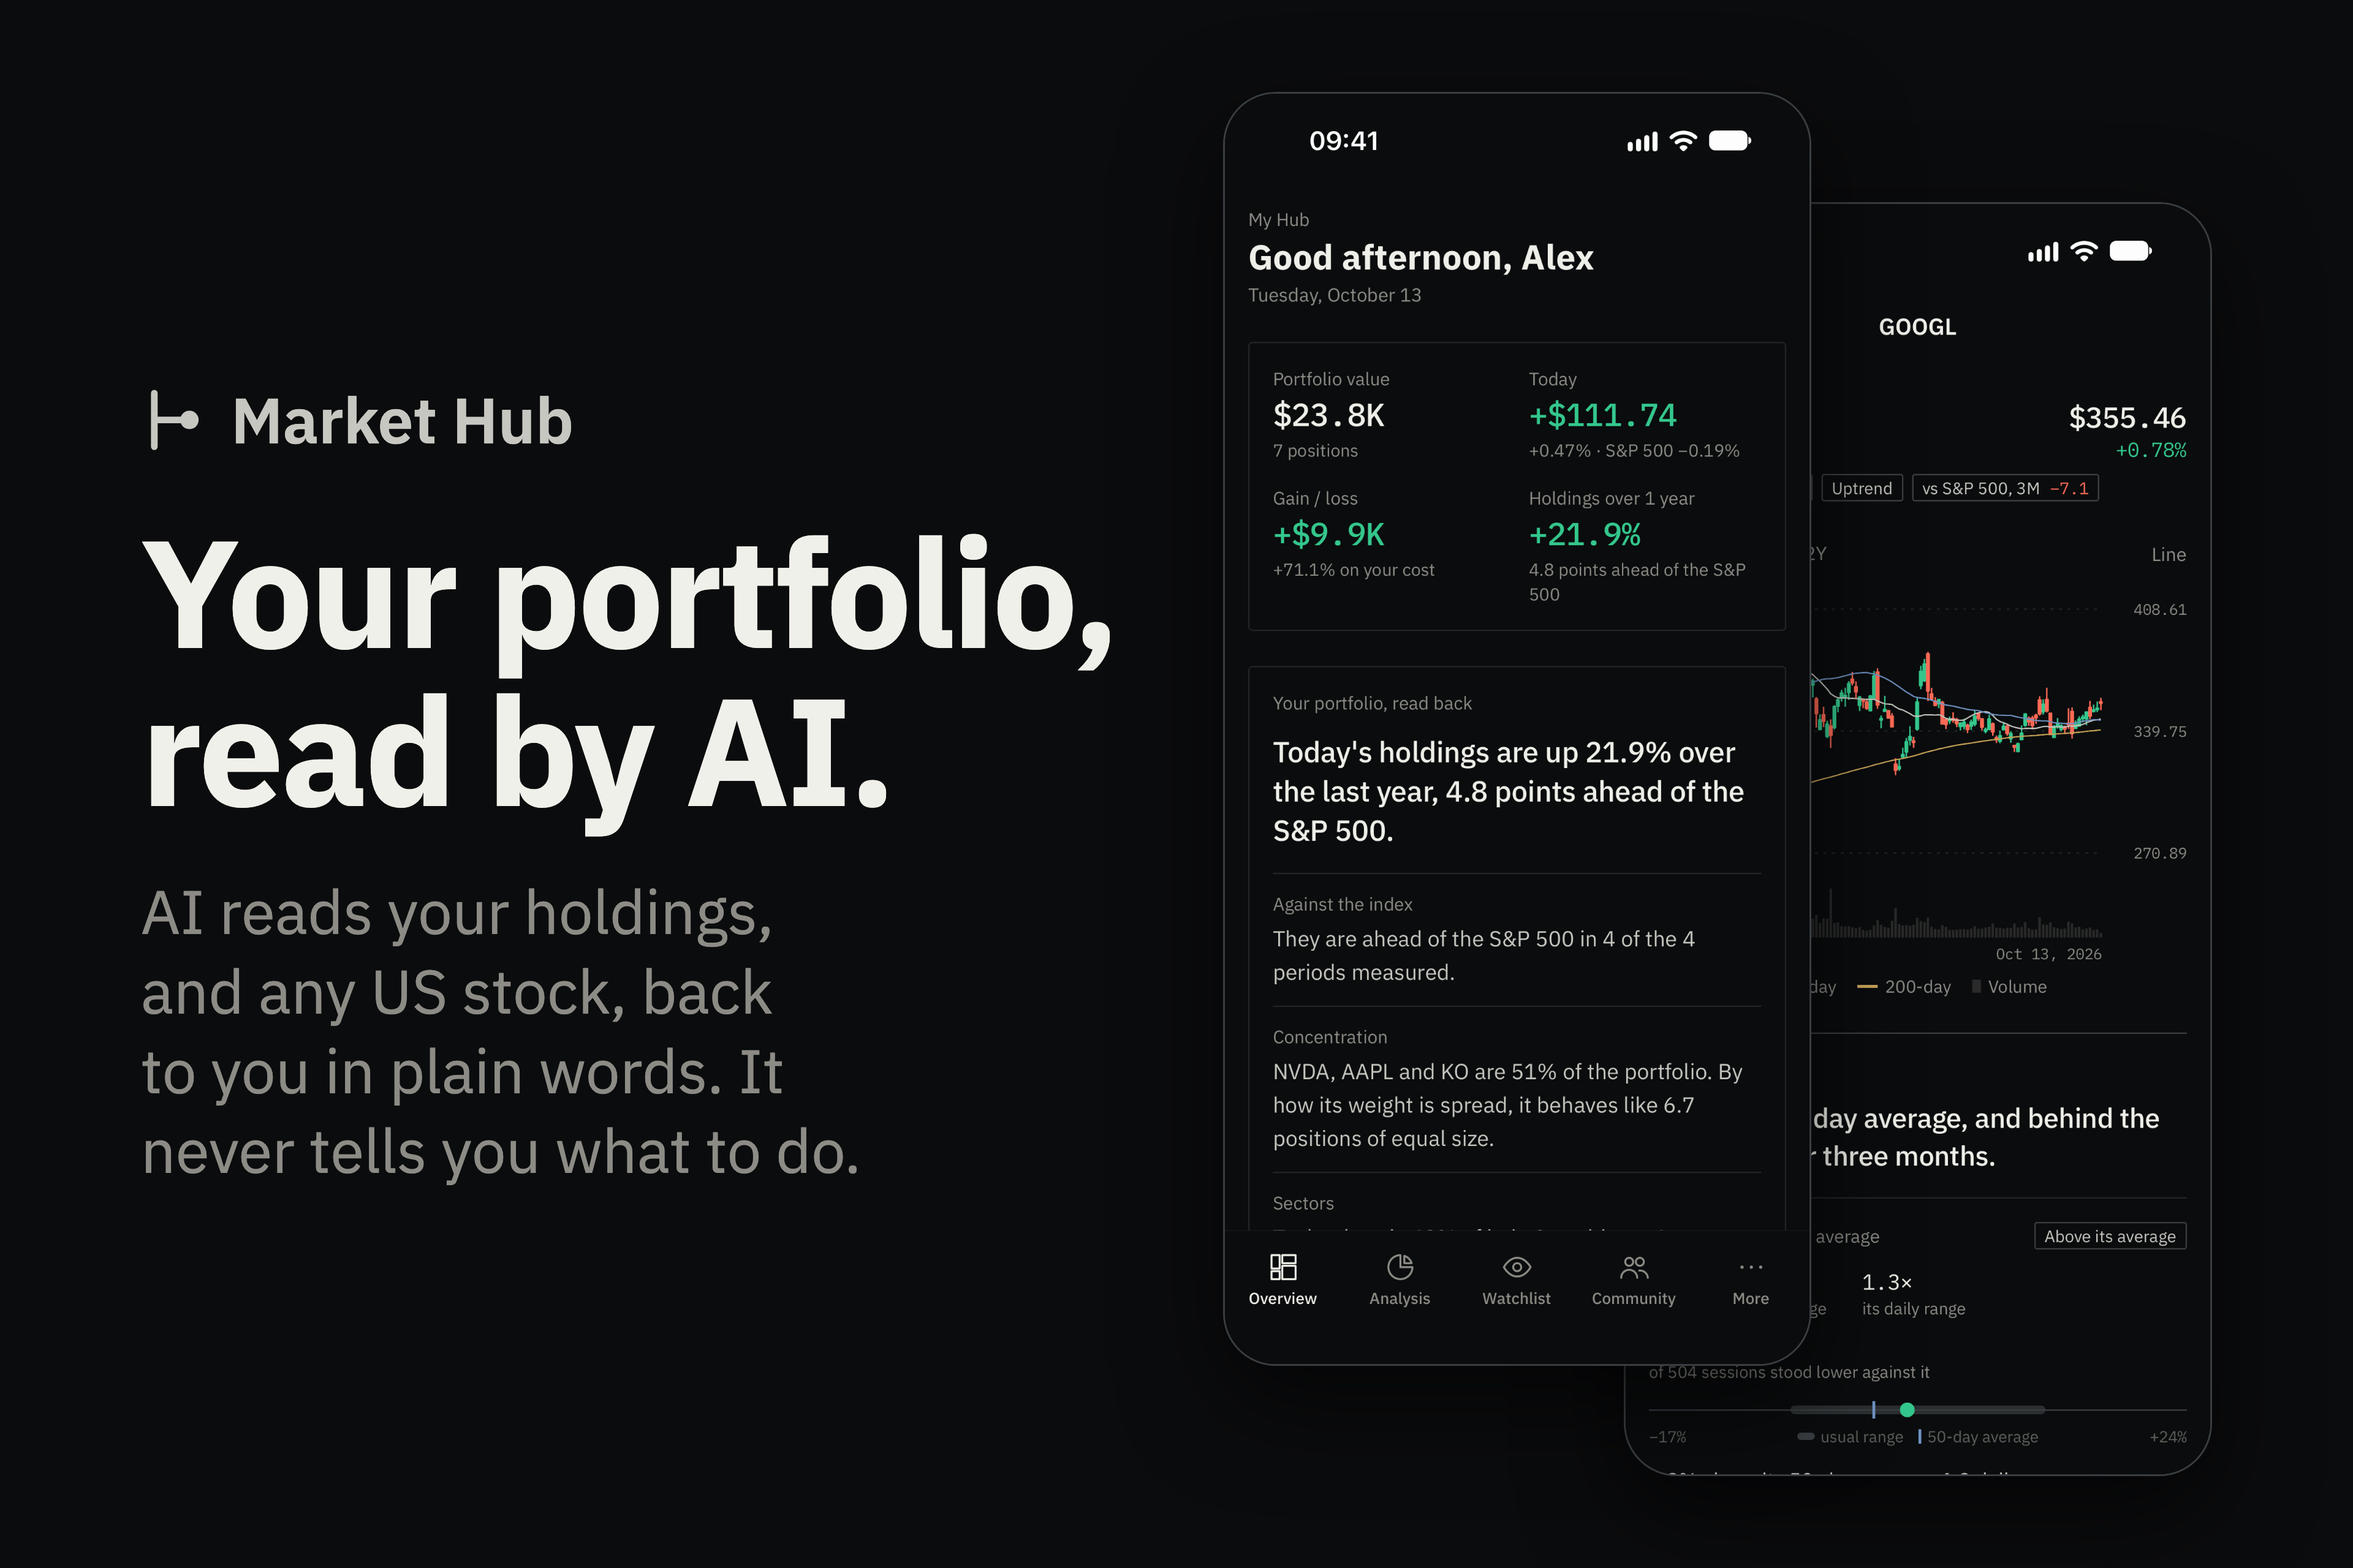
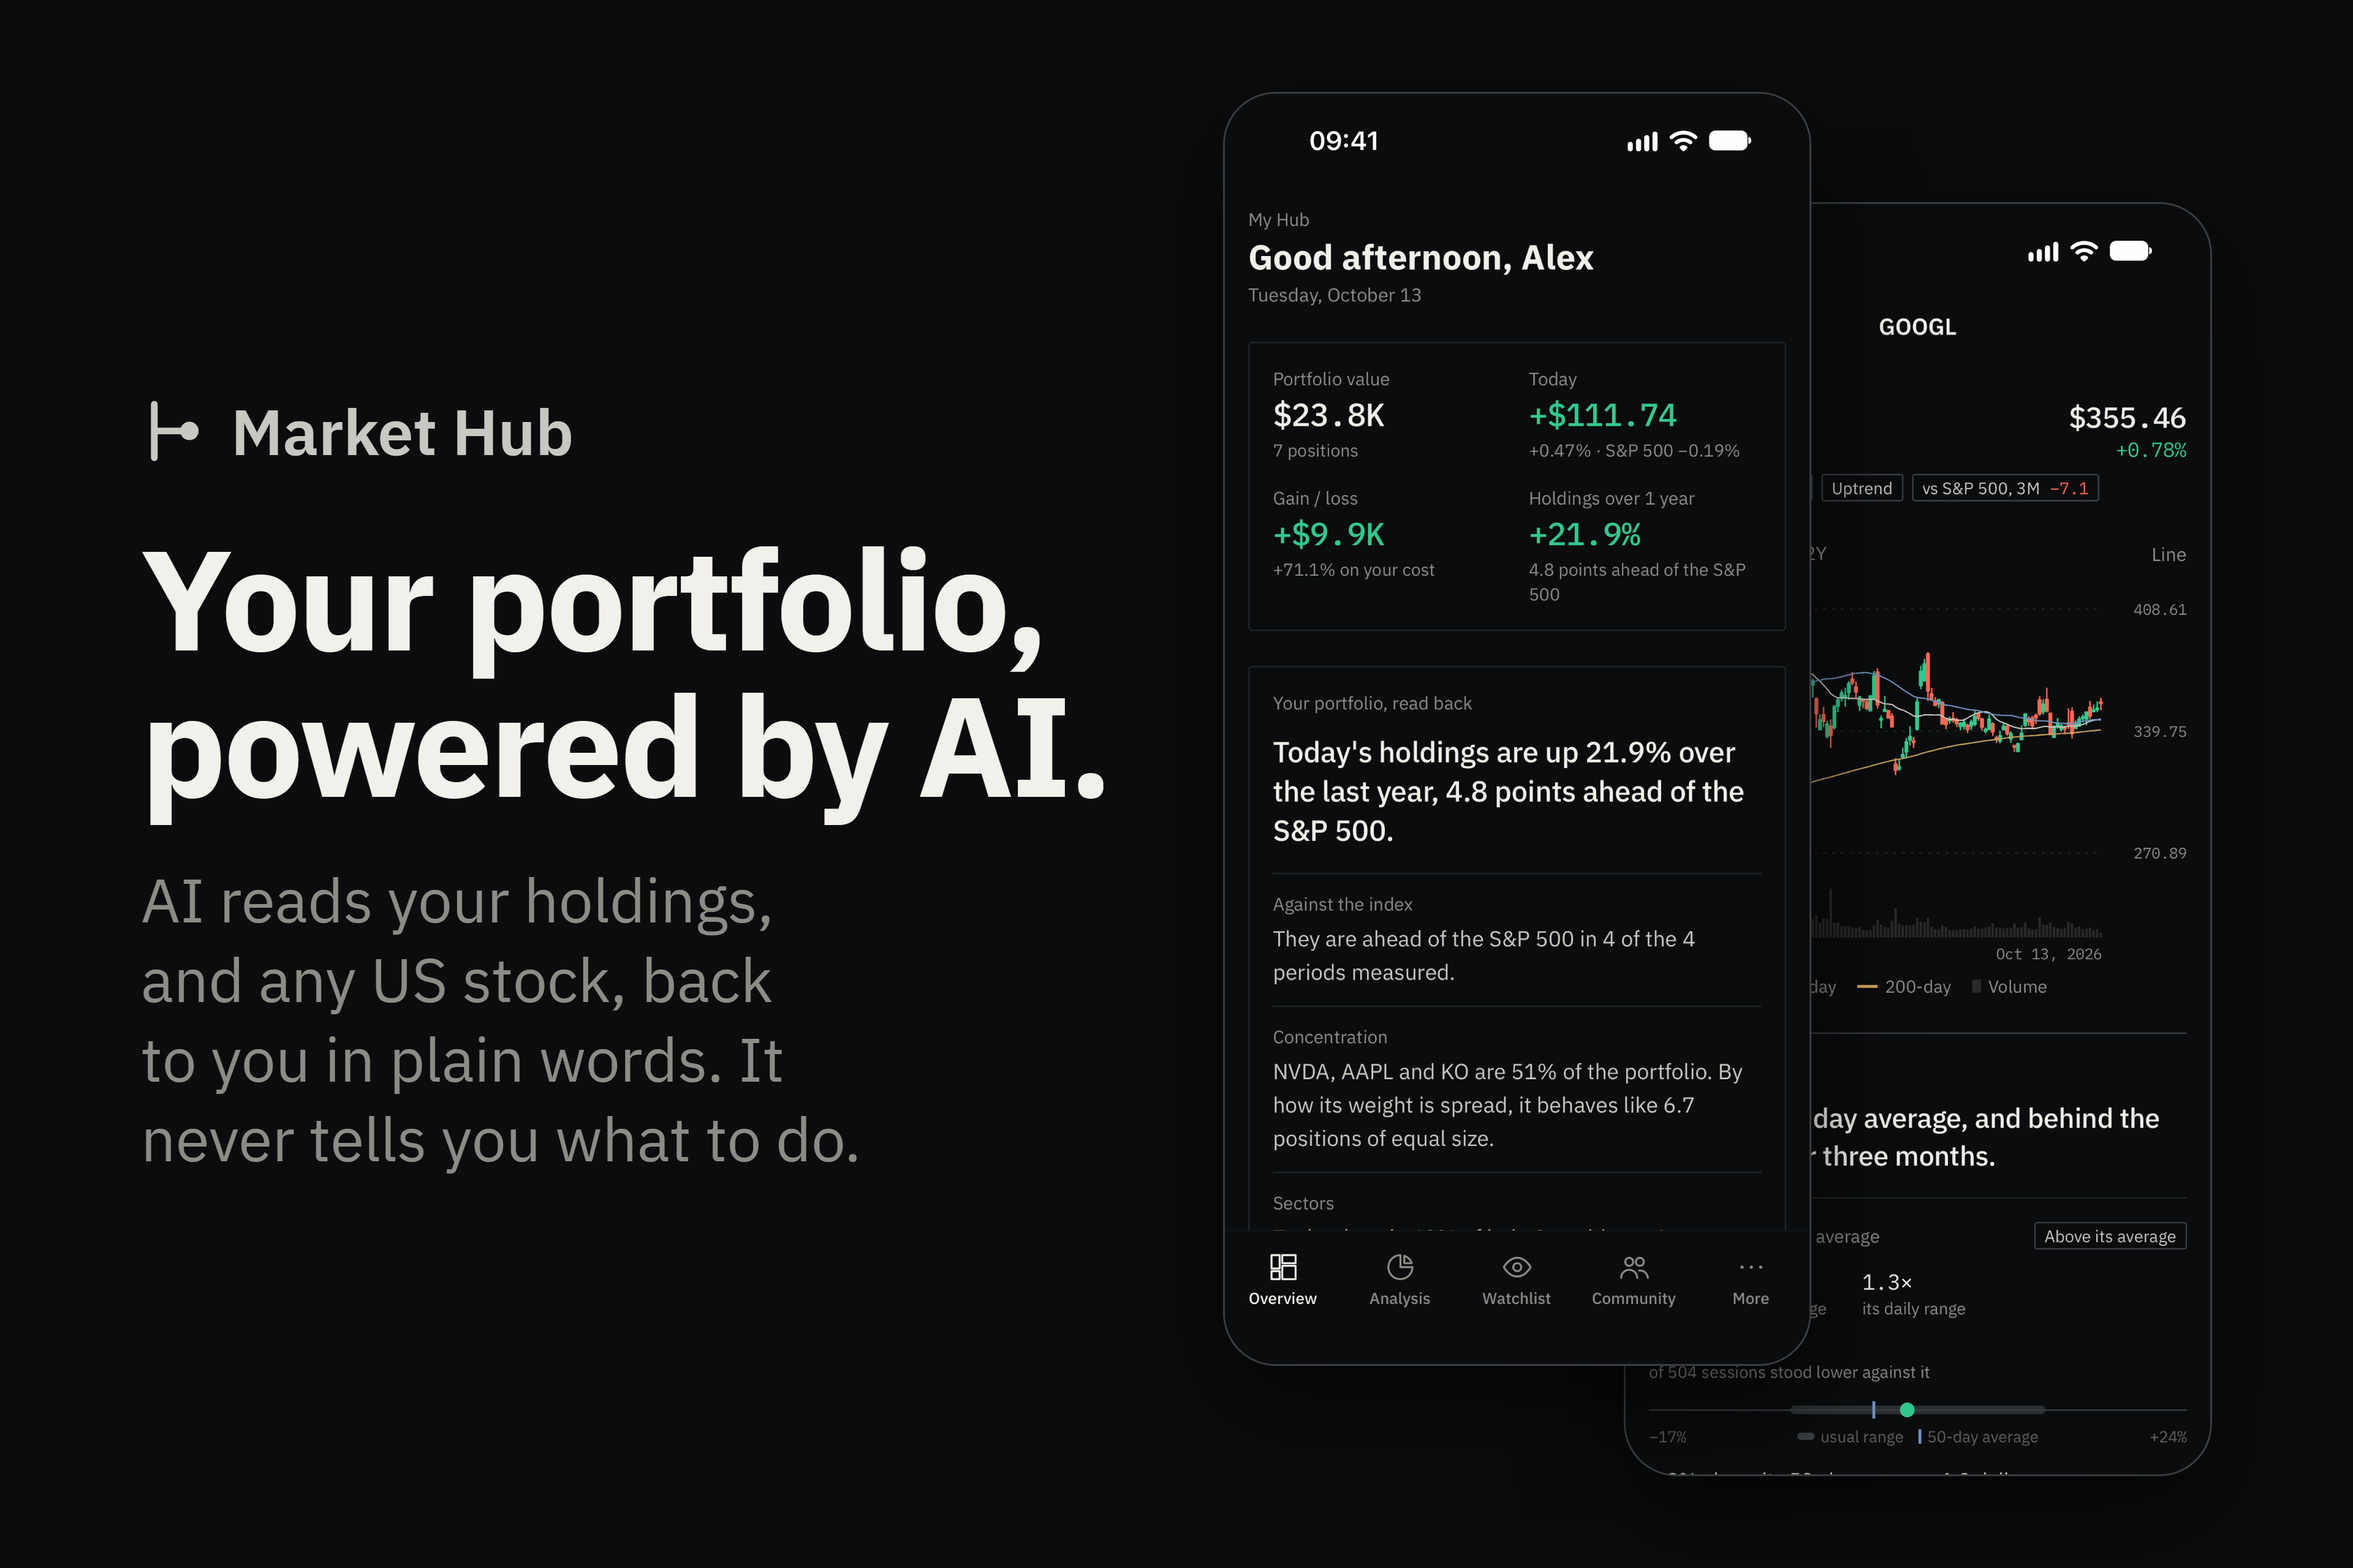
Store art: "Your portfolio, powered by AI.", as on the portal

Changed region(s): [[0.0625, 0.3438, 0.4688, 0.5312], [0.0625, 0.5625, 0.375, 0.75], [0.0625, 0.25, 0.25, 0.3125]]

diff --git a/store/app-store/art/search.html b/store/app-store/art/search.html
@@ -6,7 +6,7 @@
 <style>
   body { display: grid; grid-template-columns: 1.02fr 1fr; align-items: center; padding: 0 230px; column-gap: 120px; }
   .brand { font-size: 104px; color: var(--ink); }
-  h1 { font-size: 248px; margin-top: 84px; }
+  h1 { font-size: 230px; margin-top: 84px; }
   .sub { font-size: 100px; margin-top: 70px; max-width: 15em; text-wrap: balance; }
   .shots { position: relative; height: 2560px; }
   .shot { position: absolute; width: 960px; }
@@ -19,7 +19,7 @@
       <svg viewBox="0 0 20 20" fill="none" stroke="currentColor" stroke-width="2" stroke-linecap="round"><path d="M4 2v16M4 10h8"/><circle cx="14.5" cy="10" r="2.75" fill="currentColor" stroke="none"/></svg>
       <span>Market Hub</span>
     </div>
-    <h1>Your portfolio, read by AI.</h1>
+    <h1>Your portfolio, powered&nbsp;by&nbsp;AI.</h1>
     <p class="sub">AI reads your holdings, and any US stock, back to you in plain words. It never tells you what to do.</p>
   </div>
   <div class="shots">

diff --git a/store/app-store/art/header.html b/store/app-store/art/header.html
@@ -18,7 +18,7 @@
       <svg viewBox="0 0 20 20" fill="none" stroke="currentColor" stroke-width="2" stroke-linecap="round"><path d="M4 2v16M4 10h8"/><circle cx="14.5" cy="10" r="2.75" fill="currentColor" stroke="none"/></svg>
       <span>Market Hub</span>
     </div>
-    <h1>Your portfolio, read by AI.</h1>
+    <h1>Your portfolio, powered by AI.</h1>
     <p class="sub">AI readings of your holdings and of any US stock.</p>
   </main>
 </body>

diff --git a/docs/HANDOFF.md b/docs/HANDOFF.md
@@ -27,6 +27,14 @@ https://themarkethub.app), publicada en las dos tiendas. Decisiones del usuario 
 
 ## Dónde estamos
 
+- **2026-10-16: el eslogan pasa a "Your portfolio, powered by AI."**, como en el portal. Cambiado
+  en `store/app-store/art/header.html` y `search.html` (en la de búsqueda el titular baja de 248 a
+  230 px y "powered by AI." va junto, para que "AI." no quede sola en una línea), y redibujadas
+  las dos imágenes. Se dibujaron desde Windows con Chrome y Pillow (quitando el canal alfa, que
+  es lo que hace `sips` en `make art`, que solo corre en el Mac). **No se han subido a App Store
+  Connect**: cambiarlas en la ficha de la tienda es decisión del usuario. La app no lleva el
+  eslogan en su código.
+
 - **2026-10-15: la ficha de valor del portal, en la app, y Options Lab** (a petición del usuario).
   **Versión 1.1.0, build 5, compilada y subida a App Store Connect para TestFlight** el mismo día
   (`eas build --platform ios --profile production --auto-submit` desde Windows con `npx.cmd`, porque
